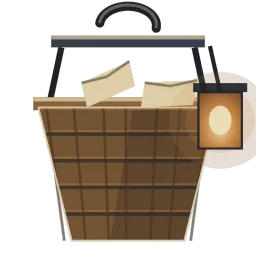
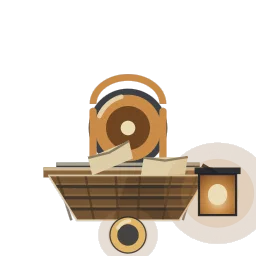
fix(labs/storybook): make the dispatch trolley a handle you can find and grab
Acting on the book-wide blind-review finding that mechanism handles are
undiscoverable at 1:1, measured rather than eyeballed on the one handle this
spread owns.

WHAT THE MEASUREMENT FOUND. The reader's rider projected 15 x 25 px at the
pinned camera — a speck — and worse, it SQUASHED to 7.2 px wide at the
outboard end of the wire, because dispatchLineBasketQuad clamped the quad's
CORNERS into the sheet: the far edge pinned at u = 1 while the near edge kept
travelling. A handle that shrinks as you use it is worse than a small one.

THREE FIXES, each gated:
  * the solver clamps the quad's CENTRE, so the handle keeps its size to the
    end of the travel (L16: width varies 0.7 px, was 7.6);
  * the trolley is sized to 29 x 43 px at every station (L15). Simply
    enlarging it was not enough on its own — hung wholly below the wire the
    bigger quad dips to y 0.244, under the roosts' 0.287 crest, and a handle
    behind a roof is not a handle. So it is CENTRED on the cable, wheel above
    and pannier below, which is what a cable trolley is anyway (L17: 0.300);
  * repainted diegetically: a grooved brass pulley wheel on the wire, a
    stirrup, the wicker pannier, the brightest lantern on the line with a
    bloom behind it (findability), and a brass PULL-RING on a cord beneath it
    (grabbability). Brass, amber and wicker — the same materials as the
    lanterns and the winch crank, not a grey UI affordance pasted on a
[…]

diff --git a/components/labs/storybook/book/popup-dispatchline.ts b/components/labs/storybook/book/popup-dispatchline.ts
@@ -149,12 +149,24 @@ export function dispatchLineBasketQuad(
   thetaL: number,
   thetaR: number
 ): PanelQuad {
-  const [u, v] = dispatchLineCableAt(geom, s)
-  const u0 = clamp(u - geom.basketHalfU, 0, 1)
-  const u1 = clamp(u + geom.basketHalfU, 0, 1)
-  // The basket HANGS: its top edge is the cable, its body below it.
-  const v1 = clamp(v, 0, 1)
-  const v0 = clamp(v - 2 * geom.basketHalfV, 0, 1)
+  const [uRaw, vRaw] = dispatchLineCableAt(geom, s)
+  // Clamp the basket's CENTRE into the sheet, never its corners. Clamping
+  // corners looks harmless and is not: at the outboard end of the wire the
+  // quad's far edge pins to u = 1 while its near edge keeps travelling, so the
+  // basket SQUASHES to half width exactly where the reader has just pushed it —
+  // measured at 7.2 px across, against 14.8 anywhere else. A handle that shrinks
+  // as you use it is worse than a small one.
+  const u = clamp(uRaw, geom.basketHalfU, 1 - geom.basketHalfU)
+  const u0 = u - geom.basketHalfU
+  const u1 = u + geom.basketHalfU
+  // The trolley is CENTRED on the cable, not hung beneath it: the pulley wheel
+  // and its hanger ride above the wire, the pannier below. That is what a cable
+  // trolley is, and it is also the only way the handle fits — a quad hung
+  // entirely below the wire dips 0.244 at the outboard end, under the roosts'
+  // 0.287 crest, and a handle behind a roof is not a handle (gate L17).
+  const v = clamp(vRaw, geom.basketHalfV, 1 - geom.basketHalfV)
+  const v0 = v - geom.basketHalfV
+  const v1 = v + geom.basketHalfV
   const at = (uu: number, vv: number): Vec3 => dispatchLinePoint(geom, uu, vv, thetaL, thetaR)
   return [at(u0, v0), at(u1, v0), at(u1, v1), at(u0, v1)]
 }

diff --git a/components/labs/storybook/content.ts b/components/labs/storybook/content.ts
@@ -585,8 +585,15 @@ const CH3_LAYERS: readonly SceneLayer[] = [
     ],
     baskets: [0.2, 0.47, 0.72],
     riderHome: 0.06,
-    basketHalfU: 0.055,
-    basketHalfV: 0.05,
+    // THE HANDLE, SIZED BY MEASUREMENT (blind-review finding: mechanism handles
+    // across the book are undiscoverable at 1:1). The reader's trolley used to
+    // project 15 x 25 px at the pinned camera — a speck — and worse, it SQUASHED
+    // to 7 px wide at the outboard end because the quad's corners were clamped
+    // into the sheet while its centre kept travelling. It is now 29 x 43 px at
+    // every station (gates L15/L16), centred ON the wire like a real trolley so
+    // its pannier still clears the roosts' 0.287 crest (L17).
+    basketHalfU: 0.11,
+    basketHalfV: 0.09,
   },
   // THE TERRACED ROOSTS — the right page's answer to a colossus, and the piece
   // that kills the mirror by being its OPPOSITE. Where the tower is one tall

diff --git a/docs/superpowers/art-call-sheet.md b/docs/superpowers/art-call-sheet.md
@@ -226,7 +226,7 @@ anything else. So the mirror is RETIRED (both cliffs, the flanking mound skyline
 strip-erected gatehouse with them) and the spread is rebuilt as ONE DIAGONAL SWEEP at dispatch
 hour: a colossal crooked rookery tower (`ch3-tower`) climbing the LEFT page past the keep's crown,
 a working die-cut dispatch cable (`ch3-dispatch-line`) falling across the RIGHT page with
-letter-baskets riding it and one the reader pushes (`ch3-dispatch-line-basket`), and a low wide
+letter-baskets riding it and a reader-pushed trolley (`ch3-dispatch-line-basket`), and a low wide
 sprawl of terraced roosts (`ch3-terrace`) where the ravens sort. Asymmetry IS the composition, and
 the tower is the ONE tall thing on the spread — the roosts' whole job is to make that legible.
 
@@ -270,7 +270,7 @@ principle) before any of these land.
 | `ch3-keep-winch` | `ch3-keep-winch-counterweight` | Slate counterweight block on a cable, dropping down the keep flank | ≈1:1 | STAND | placeholder |
 | `ch3-tower` | `ch3-tower` | THE CROOKED COLOSSUS — ONE continuous portrait painting of a 4-storey crooked rookery tower on the LEFT page, sliced by the mesh into per-storey v-bands AND per-storey u sub-ranges (the trapezoid mapping). UNEVEN storeys: tall buttressed foot (3 monumental blazing gate arches), squat gantry belt kicked outboard (jutting timber platforms with lamps), tall belfry storey pulled back inboard (4-bay arcade), short leaning crown (dense dovecote ranks under a crenellated skyline with two glazed lantern posts). Die-cut: crown skyline, a linked raven rank on the parapet, ravens wheeling in the sky it leaves, and the GANTRY ARM + first stretch of dispatch cable leaving toward the gutter. u = 0 is the inboard (gutter) edge and the lit flank; near-black slate stone, blazing amber portals, hairline raw-paper rim | 295:1024 ≈ 0.288:1 (radial extent 0.301 : chain 1.045) | STAGED CHAIN (trapezoid, merged mesh, v-banded per storey) | **art** (procedural) |
 | `ch3-dispatch-line` | `ch3-dispatch-line` | THE DIE-CUT CABLE PANEL — a sheet that has to read as a WIRE IN THE AIR, so ~97% of its alpha is cut away. Carries ONLY: the sagging cable polyline (the same 9 (u,v) nodes content.ts hands the solver), a trussed die-cut mast + pulley at each end, three hanging wicker letter-baskets with lit amber lanterns at arc s = 0.20/0.47/0.72, and three short raven ranks rotated onto the wire's own slope. Renders at alphaTest 0.1 over a black page, so every glow is a BOUNDED stepped bloom (a soft halo prints as a grey disc) and the wire ravens are slate, not ink. ROUND 4b: taller panel, shallower sag (v 0.965→0.48) so the wire clears the roofline over its whole run, and every weight quoted as a FRACTION of the panel — the board capture projects this sheet into ~139x253 screen px, where r4a's 4.6px rope landed at 1.2 screen px and read as a scratch | 516:1024 ≈ 0.504:1 (w 0.315 : chain 0.625) | STAGED CHAIN (2 stages, die-cut alpha; v split at 0.5760) | **art** (procedural) |
-| `ch3-dispatch-line` | `ch3-dispatch-line-basket` | THE READER'S BASKET — the in-plane rider pushed down the wire (drive channel `~send`, release HOLDS). The quad hangs it BELOW the cable, so the hook and yoke sit at the very TOP edge of the image and the pannier fills the rest: warm brown wicker (the chapter's one basketwork material), two cream envelopes poking out, a lit lantern slung off the yoke | 1:1 square, drawn to fill the cell | RIDER (in-plane quad) | **art** (procedural) |
+| `ch3-dispatch-line` | `ch3-dispatch-line-basket` | THE READER'S TROLLEY — the in-plane rider pushed down the wire (drive channel `~send`, release HOLDS), and the one thing on this spread a hand operates. The quad is CENTRED on the cable, so the grooved brass pulley WHEEL sits at the image's centre with the stirrup above it and the wicker pannier below: two cream envelopes, the brightest lantern on the wire with a bloom behind it (that is what makes it findable on a black page), and a brass PULL-RING on a short cord under the pannier — the diegetic "take hold of me", in the same brass as the lanterns and the winch crank rather than a grey UI affordance. Drawn to fill the cell and read at 29 x 43 px at 1600x900 with no zoom | 1:1 square | RIDER (in-plane quad, centred on the cable) | **art** (procedural) |
 | `ch3-terrace` | `ch3-terrace` | THE TERRACED ROOSTS — the RIGHT page's answer to a colossus and the piece that kills the mirror by being its OPPOSITE: a low, wide, five-storey sprawl of roof after roof stepping back. Grammar is strictly horizontal — party pilasters dividing each terrace into houses, TWO long ranks of small square-headed warm roost windows per storey (never arches), dormer roost-boxes on every roof plane, deep eave shadow + lit ridge on every fold, ravens landing on the ridge below, a lamplit road with lantern posts entering at the foot (inherited from the retired yard wall), and a LOW landing mast at the outboard end where the cable comes down. Lit chance falls as it climbs — that is the aerial recession. ROUND 4b re-proportions it WIDER THAN TALL (the chain shortened so the cable could fly over it, which is what a "low sprawl" needed all along) and breaks the r4a grid: houses and their window bays are UNEVEN seeded splits each sitting a little high or low on its own string course, two storeys carry a GABLE END with a hoist beam and a lit loft door, two carry a JETTIED upper floor on corbels, chimney stacks stand off every ridge, and a house may be SHUTTERED outright so dark cells clump among the warm ones | 1024:991 ≈ 1.033:1 (radial extent 0.31 : chain 0.30) | STAGED CHAIN (trapezoid, merged mesh, v-banded per storey) | **art** (procedural) |
 | `ch3-fringe` | `ch3-fringe` | Fore-edge dispatch-yard wall — the rookery's outer yard wall in slate, a raven rank along its top, and the ROAD NOTCH where the post-road passes through | ≈7.1:1 low strip | FACE | procedural |
 | `ch3-dispatch` | `ch3-dispatch-dial` | The reader-spun SORTING DESK dial (volvelle, riveted flat into the right-page yard, mirroring the winch) — a brass wheel of 8 sectors: raven sigils at staggered headings, route glyphs, a tally band | 1:1 square (disc, radius 0.11 → canvas 0.22×0.22) | DISC | procedural |
